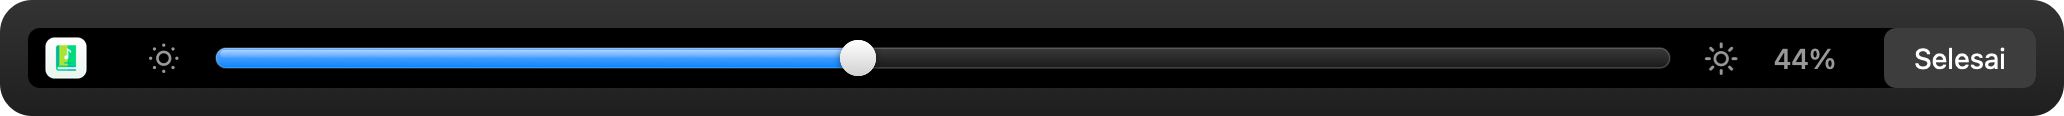
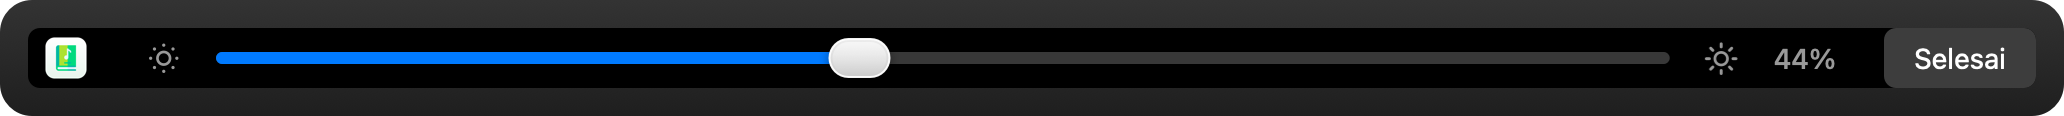
Slider: knob kapsul kaca dan jalur tipis ala Liquid Glass
Isi jalur memakai warna aksen sistem sehingga mengikuti tema di System Settings.

Changed region(s): [[0.093, 0.3103, 0.8062, 0.6724]]

diff --git a/Sources/main.swift b/Sources/main.swift
@@ -650,12 +650,13 @@ enum LyricAnimation: String, CaseIterable {
     }
 }
 
-/// Slider bergaya kaca ala Apple. Touch Bar berlatar hitam tanpa apa pun di belakangnya untuk diburamkan,
-/// jadi efek kacanya digambar sendiri: jalur tembus pandang bergaris tepi tipis, isi gradasi warna aksen
-/// dengan kilau di atas, dan knob putih mengilap.
+/// Slider bergaya Liquid Glass ala Apple: jalur tipis polos, isi warna aksen sistem (mengikuti tema di
+/// System Settings › Appearance), dan knob kapsul "kaca" dengan garis tepi putih tipis dan bayangan lembut.
+/// Touch Bar berlatar hitam tanpa apa pun di belakangnya untuk diburamkan, jadi efek kacanya digambar sendiri.
 final class GlassSliderCell: NSSliderCell {
-    private let trackHeight: CGFloat = 10
-    private let knobSize: CGFloat = 20
+    private let trackHeight: CGFloat = 6
+    private let knobWidth: CGFloat = 32
+    private let knobHeight: CGFloat = 21
 
     private var progress: CGFloat {
         guard maxValue > minValue else { return 0 }
@@ -664,58 +665,55 @@ final class GlassSliderCell: NSSliderCell {
 
     override func knobRect(flipped: Bool) -> NSRect {
         let bar = barRect(flipped: flipped)
-        let x = bar.minX + (bar.width - knobSize) * progress
-        return NSRect(x: x, y: bar.midY - knobSize / 2, width: knobSize, height: knobSize)
+        let x = bar.minX + (bar.width - knobWidth) * progress
+        return NSRect(x: x, y: bar.midY - knobHeight / 2, width: knobWidth, height: knobHeight)
     }
 
     override func drawBar(inside rect: NSRect, flipped: Bool) {
         let track = NSRect(x: rect.minX, y: rect.midY - trackHeight / 2, width: rect.width, height: trackHeight)
         let radius = trackHeight / 2
-        let trackPath = NSBezierPath(roundedRect: track, xRadius: radius, yRadius: radius)
 
-        // Jalur: kaca tipis dengan kilau samar di bagian atas.
-        NSColor.white.withAlphaComponent(0.10).setFill()
-        trackPath.fill()
-        NSGradient(starting: NSColor.white.withAlphaComponent(0.14), ending: NSColor.white.withAlphaComponent(0))!
-            .draw(in: trackPath, angle: flipped ? 90 : -90)
+        // Jalur kosong: abu-abu lembut tanpa kilau.
+        NSColor.white.withAlphaComponent(0.22).setFill()
+        NSBezierPath(roundedRect: track, xRadius: radius, yRadius: radius).fill()
 
-        // Isi: dari tepi kiri sampai tengah knob.
+        // Isi: warna aksen polos, dari tepi kiri sampai tengah knob.
         let knob = knobRect(flipped: flipped)
         let filled = NSRect(x: track.minX, y: track.minY, width: max(trackHeight, knob.midX - track.minX), height: trackHeight)
-        let fillPath = NSBezierPath(roundedRect: filled, xRadius: radius, yRadius: radius)
-        let accent = NSColor.controlAccentColor
-        NSGradient(starting: accent.blended(withFraction: 0.35, of: .white) ?? accent, ending: accent)!
-            .draw(in: fillPath, angle: flipped ? 90 : -90)
-        // Kilau tajam di separuh atas, seperti permukaan kaca.
-        let shine = NSRect(x: filled.minX + 2, y: flipped ? filled.minY + 1 : filled.midY, width: max(0, filled.width - 4),
-                           height: trackHeight / 2 - 1)
-        NSGradient(starting: NSColor.white.withAlphaComponent(0.45), ending: NSColor.white.withAlphaComponent(0.05))!
-            .draw(in: NSBezierPath(roundedRect: shine, xRadius: shine.height / 2, yRadius: shine.height / 2),
-                  angle: flipped ? 90 : -90)
-
-        // Garis tepi tipis menyatukan semuanya.
-        NSColor.white.withAlphaComponent(0.22).setStroke()
-        trackPath.lineWidth = 0.75
-        trackPath.stroke()
+        NSColor.controlAccentColor.setFill()
+        NSBezierPath(roundedRect: filled, xRadius: radius, yRadius: radius).fill()
     }
 
     override func drawKnob(_ knobRect: NSRect) {
-        let circle = NSBezierPath(ovalIn: knobRect.insetBy(dx: 1, dy: 1))
+        let capsule = knobRect.insetBy(dx: 1, dy: 1)
+        let path = NSBezierPath(roundedRect: capsule, xRadius: capsule.height / 2, yRadius: capsule.height / 2)
+        let flipped = controlView?.isFlipped == true
+
+        // Bayangan lembut di bawah knob.
         NSGraphicsContext.saveGraphicsState()
         let shadow = NSShadow()
-        shadow.shadowColor = NSColor.black.withAlphaComponent(0.5)
-        shadow.shadowBlurRadius = 4
-        shadow.shadowOffset = NSSize(width: 0, height: -1)
+        shadow.shadowColor = NSColor.black.withAlphaComponent(0.45)
+        shadow.shadowBlurRadius = 6
+        shadow.shadowOffset = NSSize(width: 0, height: -1.5)
         shadow.set()
-        NSColor.white.setFill()
-        circle.fill()
+        NSColor(white: 0.86, alpha: 1).setFill()
+        path.fill()
         NSGraphicsContext.restoreGraphicsState()
 
-        NSGradient(starting: .white, ending: NSColor(white: 0.82, alpha: 1))!
-            .draw(in: circle, angle: controlView?.isFlipped == true ? 90 : -90)
-        NSColor.white.withAlphaComponent(0.9).setStroke()
-        circle.lineWidth = 0.75
-        circle.stroke()
+        // Badan kaca: terang di atas, sedikit lebih gelap di bawah.
+        NSGradient(starting: NSColor(white: 0.93, alpha: 1), ending: NSColor(white: 0.80, alpha: 1))!
+            .draw(in: path, angle: flipped ? 90 : -90)
+
+        // Pantulan tipis di bagian atas dalam.
+        let inner = capsule.insetBy(dx: 1.5, dy: 1.5)
+        let innerPath = NSBezierPath(roundedRect: inner, xRadius: inner.height / 2, yRadius: inner.height / 2)
+        NSGradient(starting: NSColor.white.withAlphaComponent(0.55), ending: NSColor.white.withAlphaComponent(0))!
+            .draw(in: innerPath, angle: flipped ? 90 : -90)
+
+        // Garis tepi putih tipis.
+        NSColor.white.withAlphaComponent(0.95).setStroke()
+        path.lineWidth = 1
+        path.stroke()
     }
 }
 
